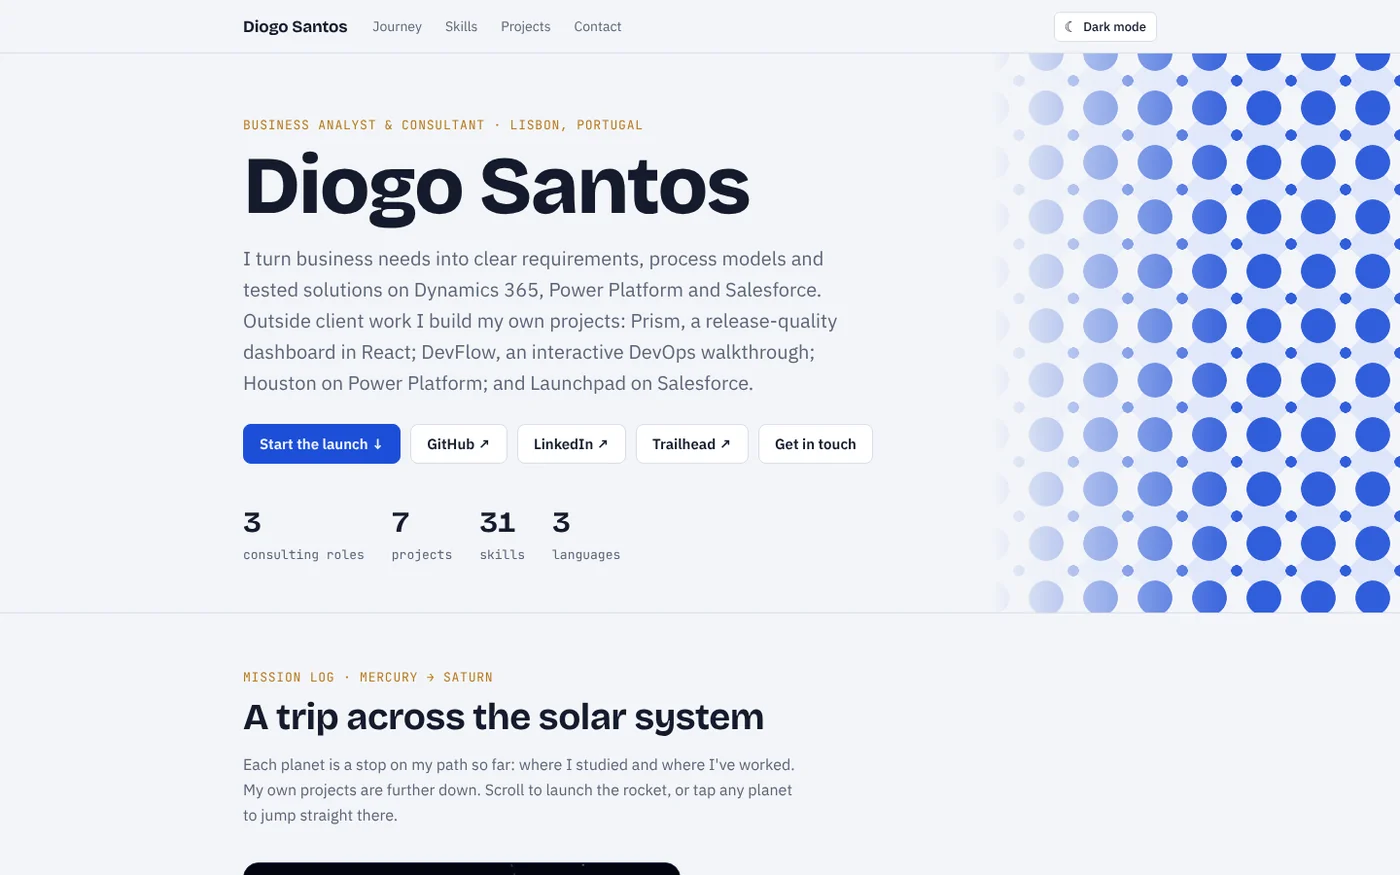
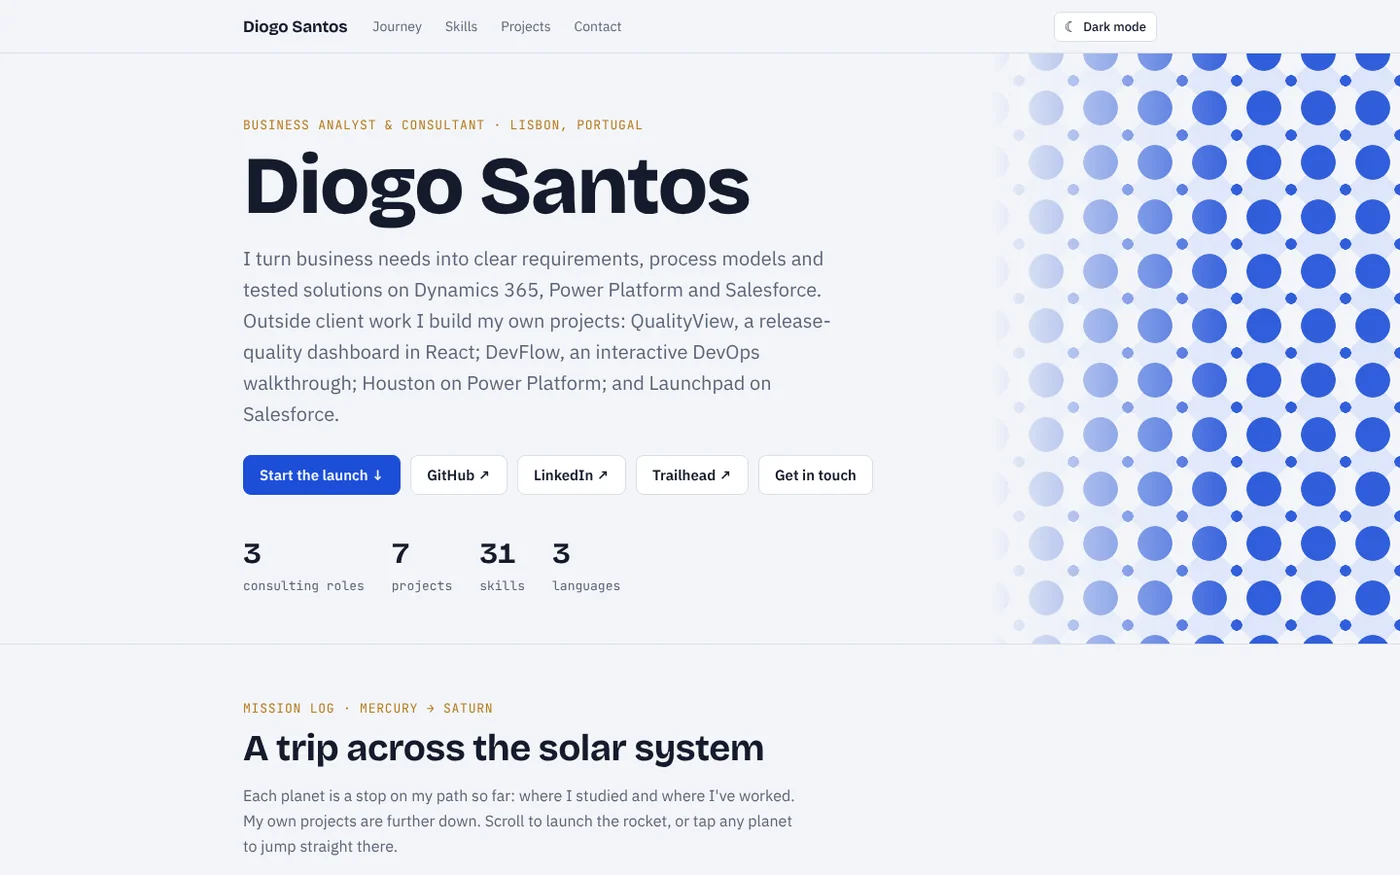
Remove leftover Pixelburg images; CV screenshots with QualityView

diff --git a/assets/js/data.js b/assets/js/data.js
@@ -134,13 +134,13 @@ const CV = {
       context:"Personal project · 2026",
       shots:[
         {src:"assets/img/shots/cv-cover.webp?v=20261101-2", caption:"Interactive CV: a career across the solar system"},
-        {src:"assets/img/shots/cv-hero.webp?v=20261103-2", caption:"Header with intro, links and quick stats"},
+        {src:"assets/img/shots/cv-hero.webp?v=20261103-4", caption:"Header with intro, links and quick stats"},
         {src:"assets/img/shots/cv-journey.webp?v=20261101-2", caption:"Journey: the rocket reaches Jupiter, my current role as a QA consultant"},
         {src:"assets/img/shots/cv-journey-next.webp?v=20261101-2", caption:"Journey: Saturn, the next mission"},
         {src:"assets/img/shots/cv-skills.webp?v=20261103-2", caption:"Skills filtered to Python, highlighting matching work"},
-        {src:"assets/img/shots/cv-projects.webp?v=20261103-2", caption:"Project cards with hover slideshows"},
-        {src:"assets/img/shots/cv-gallery.webp?v=20261103-2", caption:"Screenshot gallery with arrows, thumbnails and swipe"},
-        {src:"assets/img/shots/cv-projects-dark.webp?v=20261103-2", caption:"Dark theme"},
+        {src:"assets/img/shots/cv-projects.webp?v=20261103-4", caption:"Project cards with hover slideshows"},
+        {src:"assets/img/shots/cv-gallery.webp?v=20261103-4", caption:"Screenshot gallery with arrows, thumbnails and swipe"},
+        {src:"assets/img/shots/cv-projects-dark.webp?v=20261103-4", caption:"Dark theme"},
         {src:"assets/img/shots/cv-phone-journey.webp?v=20261101-2", caption:"Phone layout with the flight pinned to the top"},
       ],
       details:["Canvas animation of a rocket flying from Mercury to interstellar space as you scroll","Skill filters dim projects and milestones that don't use the skill","Screenshot galleries with keyboard and swipe support","Light and dark themes; works from phone to desktop; no frameworks or build step"] },

diff --git a/index.html b/index.html
@@ -106,7 +106,7 @@
   </div>
 </div>
 <footer><div class="wrap">© 2026 Diogo Santos · Business analyst &amp; consultant · Lisbon, Portugal</div></footer>
-<script src="assets/js/data.js?v=20261103-1"></script>
+<script src="assets/js/data.js?v=20261103-4"></script>
 <script src="assets/js/app.js?v=20261101-5"></script>
 </body>
 </html>
